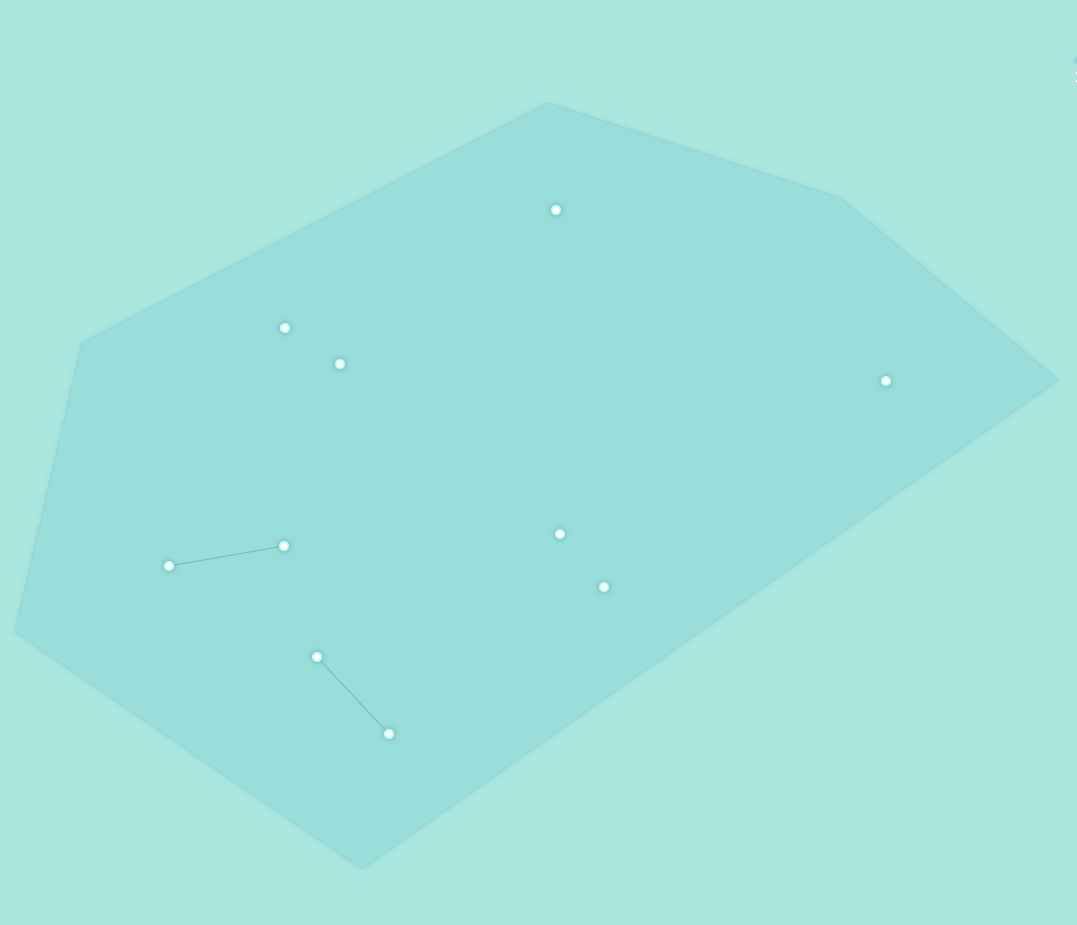
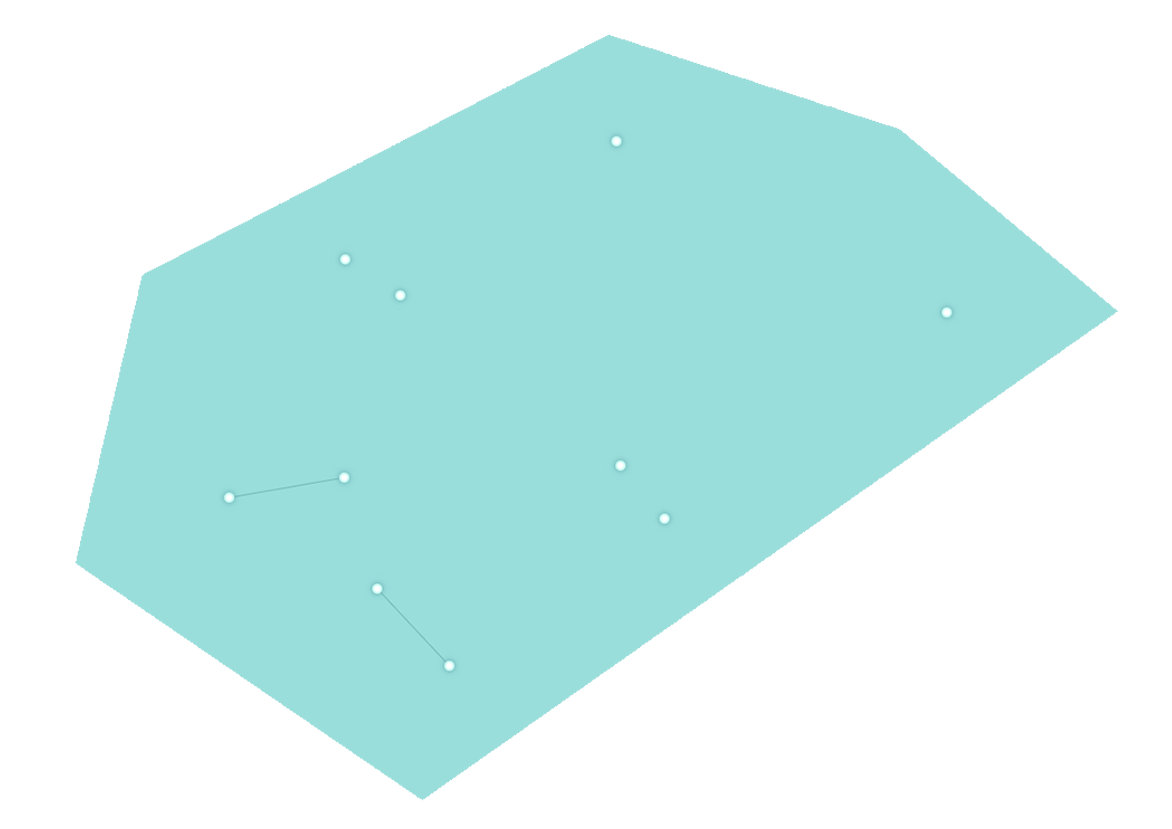
changed map images and adjusted margins on enu
#story[1104]

diff --git a/src/main/resources/style/menuStyle.css b/src/main/resources/style/menuStyle.css
@@ -119,3 +119,13 @@
     -fx-font: 18px "Helvetica Neue Normal";
     -fx-text-fill: #aaaaaa;
 }
+
+.imageMapView{
+    -fx-effect: dropshadow(gaussian, #d7d7d7, 20, 0, 0, 0);
+    -fx-opacity: 0.8;
+}
+
+#mapTitle {
+    -fx-font: 18px "Helvetica Neue Heavy";
+    -fx-text-fill: #2a2a2a;
+}

diff --git a/src/main/java/seng302/controllers/MainMenuController.java b/src/main/java/seng302/controllers/MainMenuController.java
@@ -3,6 +3,7 @@ package seng302.controllers;
 import javafx.beans.value.ObservableValue;
 import javafx.fxml.FXML;
 import javafx.fxml.Initializable;
+import javafx.scene.Node;
 import javafx.scene.control.Alert;
 import javafx.scene.control.Button;
 import javafx.scene.control.Label;
@@ -47,7 +48,7 @@ public class MainMenuController implements Initializable{
     private String selectedCourse = "AC35-course.xml"; //default to the AC35
 
 
-    DropShadow ds = new DropShadow( 20, Color.AQUA );
+    DropShadow ds = new DropShadow( 20, Color.web("#8eb0b7"));
 
 
     private Main main;
@@ -66,6 +67,7 @@ public class MainMenuController implements Initializable{
         btnGrid.setVisible(true);
         liveGameGrid.setVisible(false);
         practiceGrid.setVisible(false);
+        courseGrid.setVisible(false);
     }
 
     public void setApp(Main main){
@@ -244,12 +246,12 @@ public class MainMenuController implements Initializable{
      * attaches click and hover listeners to buttons
      * @param button the button to attach the listener
      */
-    private void addButtonListeners(Button button){
-        button.addEventHandler(MouseEvent.MOUSE_ENTERED,
-                e -> AnimationUtils.scaleButtonHover(button));
+    private void addButtonListeners(Node node){
+        node.addEventHandler(MouseEvent.MOUSE_ENTERED,
+                e -> AnimationUtils.scaleButtonHover(node));
 
-        button.addEventHandler(MouseEvent.MOUSE_EXITED,
-                e -> AnimationUtils.scaleButtonHoverExit(button));
+        node.addEventHandler(MouseEvent.MOUSE_EXITED,
+                e -> AnimationUtils.scaleButtonHoverExit(node));
     }
 
     /**
@@ -288,6 +290,16 @@ public class MainMenuController implements Initializable{
                 imageView.setEffect( null );
             }
         });
+
+//        imageView.setOnMouseEntered(( MouseEvent event ) ->
+//        {
+//            AnimationUtils.viewMapFocus(imageView);
+//        } );
+//
+//        imageView.setOnMouseExited(( MouseEvent event ) ->
+//        {
+//            AnimationUtils.viewMapUnFocus(imageView);
+//        } );
 
     }
 

diff --git a/src/main/java/seng302/utilities/AnimationUtils.java b/src/main/java/seng302/utilities/AnimationUtils.java
@@ -6,6 +6,7 @@ import javafx.event.EventHandler;
 import javafx.scene.Node;
 import javafx.scene.control.Label;
 import javafx.util.Duration;
+import seng302.controllers.Controller;
 
 /**
  * Created by Devin on 25/07/17.
@@ -150,5 +151,41 @@ public class AnimationUtils {
         ParallelTransition pt = new ParallelTransition(translateTransition, scaleTransition);
         pt.play();
 
+    }
+
+    /**
+     *
+     */
+    public static void viewMapFocus(Node node){
+//        TranslateTransition translateTransition = new TranslateTransition(new Duration(80), node);
+//        translateTransition.setFromX(node.getLayoutX());
+//        translateTransition.setFromY(node.getLayoutY());
+//        translateTransition.setToX(960);
+//        translateTransition.setToY(540);
+//        translateTransition.setInterpolator(Interpolator.EASE_IN);
+
+        ScaleTransition scaleTransition = new ScaleTransition(new Duration(200), node);
+        scaleTransition.setByX(2);
+        scaleTransition.setByY(2);
+
+        ParallelTransition pt = new ParallelTransition(scaleTransition);
+        pt.play();
+    }
+
+    /**
+     *
+     */
+    public static void viewMapUnFocus(Node node){
+//        TranslateTransition translateTransition = new TranslateTransition(new Duration(80), node);
+//        translateTransition.setByX(18);
+//        translateTransition.setByY(26);
+//        translateTransition.setInterpolator(Interpolator.EASE_IN);
+
+        ScaleTransition scaleTransition = new ScaleTransition(new Duration(200), node);
+        scaleTransition.setByX(-2);
+        scaleTransition.setByY(-2);
+
+        ParallelTransition pt = new ParallelTransition(scaleTransition);
+        pt.play();
     }
 }
